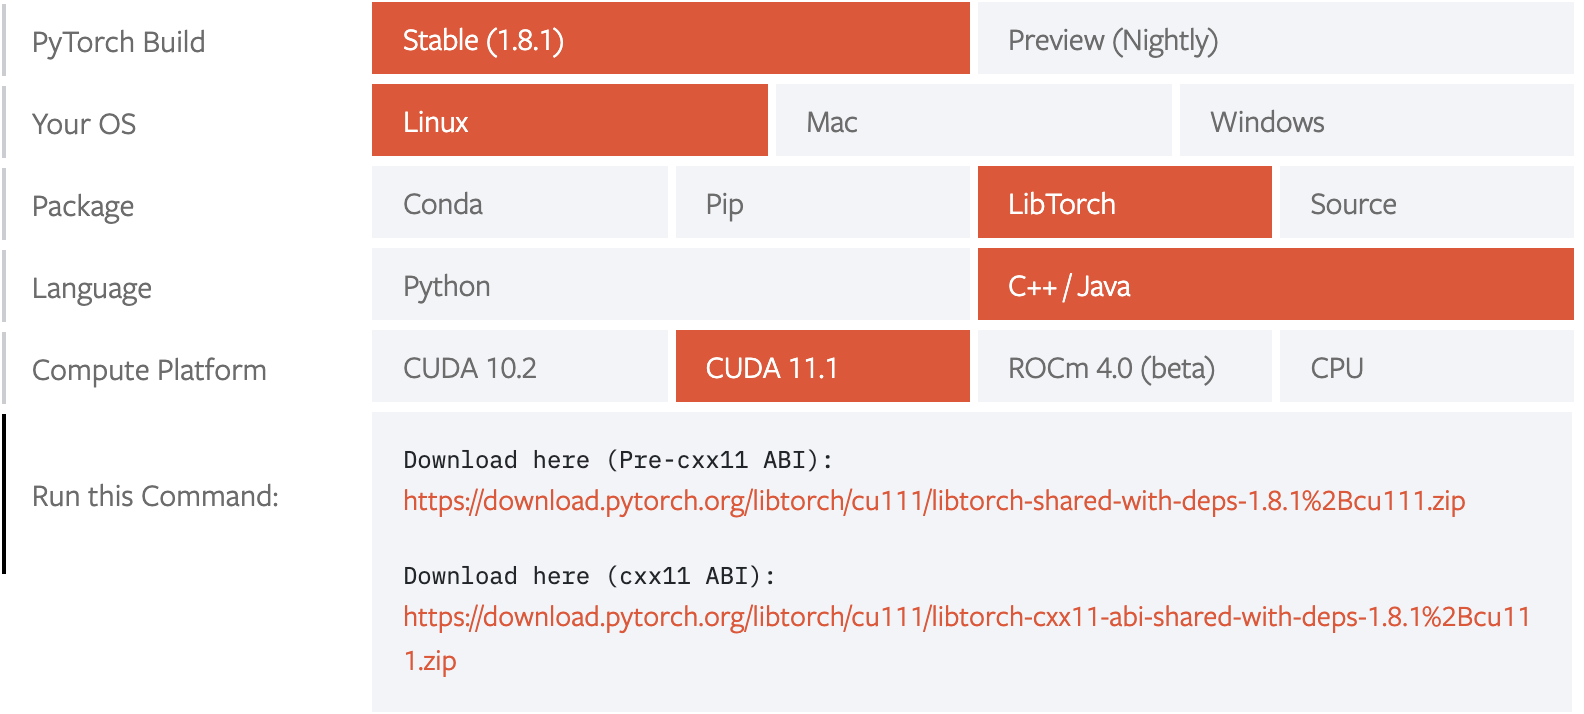
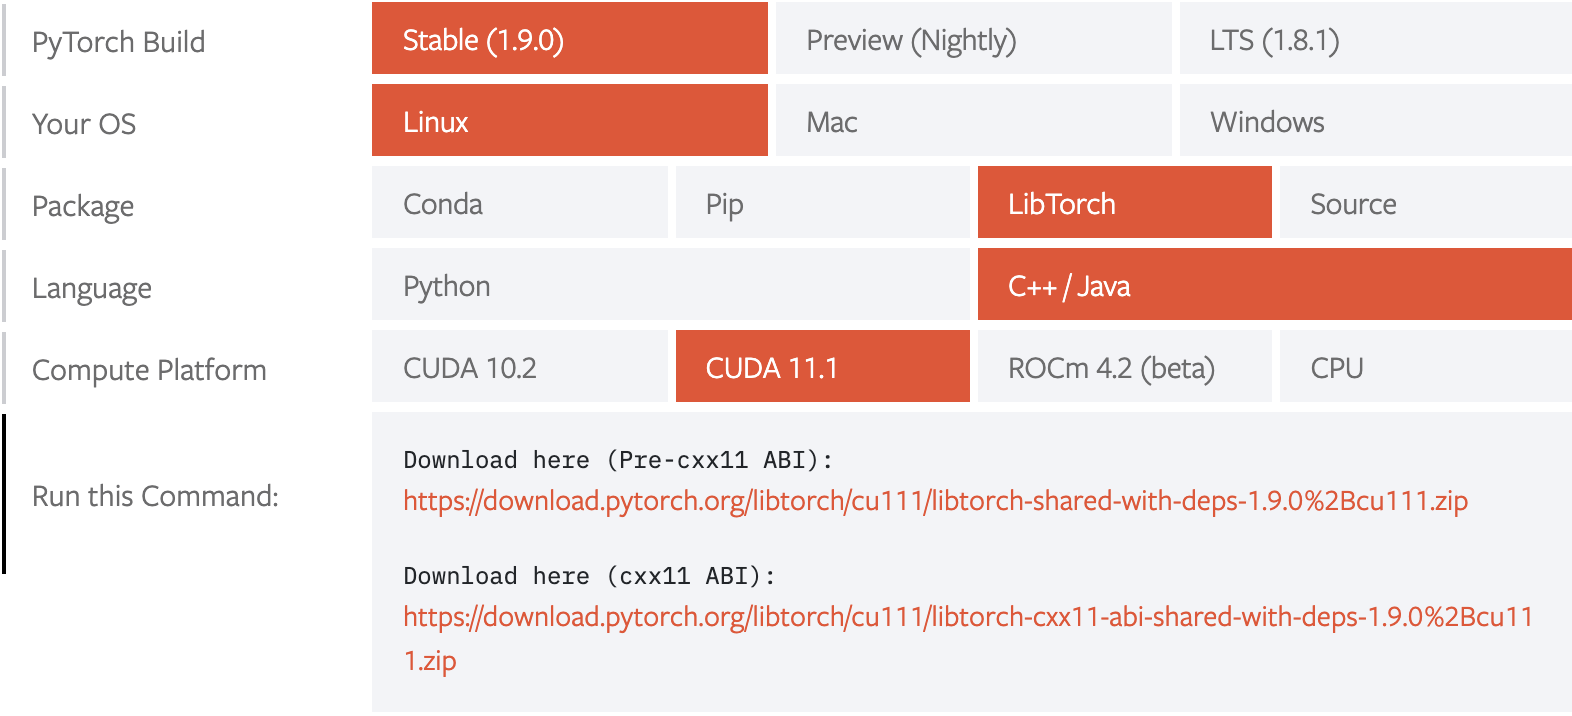
update build doc for version 1.9.0

diff --git a/knn.cpp b/knn.cpp
@@ -4282,7 +4282,7 @@ normalize, interpolate  -- functional form implemented, add module?
 pairwise distance & cosine similarity: in both module & functional form but forward method needs 2 input tensors
 fractional pool -- try with indices registered as buffer?
 embeddingbag -- forward w'defaults should work with sequential
-1.7 adds SiLU, UnFlatten
+1.7 adds UnFlatten
 BaseModule - push_back ? / forward ?
 
 GRU,RNN

diff --git a/docs/config.rst b/docs/config.rst
@@ -9,26 +9,28 @@ Given a successful build of the ``ktorch.so`` interface library, it's possible t
 	| Returns a list of strings containing the configuration output, or with null argument (as opposed to an empty list), prints the configuration to stderr
 
 
-On a linux machine with dual Nvidia GTX 1080 gpu's, ``config`` output looks as follows for PyTorch version 1.8.1:
+On a linux machine with dual Nvidia GTX 1080 gpu's, ``config`` output looks as follows for PyTorch version 1.9.0:
 
 ::
 
-   q)config()
+   q)config()                  / return strings
    "PyTorch built with:"
    "  - GCC 7.3"
    "  - C++ Version: 201402"
    "  - Intel(R) Math Kernel Library Version 2020.0.0 Product Build 20191122 for..
-   "  - Intel(R) MKL-DNN v1.7.0 (Git Hash 7aed236906b1f7a05c0917e5257a1af05e9ff6..
+   "  - Intel(R) MKL-DNN v2.1.2 (Git Hash 98be7e8afa711dc9b66c8ff3504129cb82013c..
    "  - OpenMP 201511 (a.k.a. OpenMP 4.5)"
    "  - NNPACK is enabled"
+   "  - CPU capability usage: AVX2"
+   "  - CUDA Runtime 11.1"
    ..
 
-   q)config[]
+   q)config[]                 / print to stderr
    PyTorch built with:
      - GCC 7.3
      - C++ Version: 201402
      - Intel(R) Math Kernel Library Version 2020.0.0 Product Build 20191122 for Intel(R) 64 architecture applications
-     - Intel(R) MKL-DNN v1.7.0 (Git Hash 7aed236906b1f7a05c0917e5257a1af05e9ff683)
+     - Intel(R) MKL-DNN v2.1.2 (Git Hash 98be7e8afa711dc9b66c8ff3504129cb82013cdb)
      - OpenMP 201511 (a.k.a. OpenMP 4.5)
      - NNPACK is enabled
      - CPU capability usage: AVX2
@@ -36,8 +38,8 @@ On a linux machine with dual Nvidia GTX 1080 gpu's, ``config`` output looks as f
      - NVCC architecture flags: -gencode;arch=compute_37,code=sm_37;-gencode;arch=compute_50,code=sm_50;-gencode;arch=compute_60,code=sm_60;-gencode;arch=compute_70,code=sm_70;-gencode;arch=compute_75,code=sm_75;-gencode;arch=compute_80,code=sm_80;-gencode;arch=compute_86,code=sm_86
      - CuDNN 8.0.5
      - Magma 2.5.2
-     - Build settings: BLAS_INFO=mkl, BUILD_TYPE=Release, CUDA_VERSION=11.1, CUDNN_VERSION=8.0.5, CXX_COMPILER=/opt/rh/devtoolset-7/root/usr/bin/c++, CXX_FLAGS= -Wno-deprecated -fvisibility-inlines-hidden -DUSE_PTHREADPOOL -fopenmp -DNDEBUG -DUSE_KINETO -DUSE_FBGEMM -DUSE_QNNPACK -DUSE_PYTORCH_QNNPACK -DUSE_XNNPACK -O2 -fPIC -Wno-narrowing -Wall -Wextra -Werror=return-type -Wno-missing-field-initializers -Wno-type-limits -Wno-array-bounds -Wno-unknown-pragmas -Wno-sign-compare -Wno-unused-parameter -Wno-unused-variable -Wno-unused-function -Wno-unused-result -Wno-unused-local-typedefs -Wno-strict-overflow -Wno-strict-aliasing -Wno-error=deprecated-declarations -Wno-stringop-overflow -Wno-psabi -Wno-error=pedantic -Wno-error=redundant-decls -Wno-error=old-style-cast -fdiagnostics-color=always -faligned-new -Wno-unused-but-set-variable -Wno-maybe-uninitialized -fno-math-errno -fno-trapping-math -Werror=format -Wno-stringop-overflow, LAPACK_INFO=mkl, PERF_WITH_AVX=1, PERF_WITH_AVX2=1, PERF_WITH_AVX512=1, TORCH_VERSION=1.8.1, USE_CUDA=ON, USE_CUDNN=ON, USE_EXCEPTION_PTR=1, USE_GFLAGS=OFF, USE_GLOG=OFF, USE_MKL=ON, USE_MKLDNN=ON, USE_MPI=OFF, USE_NCCL=ON, USE_NNPACK=ON, USE_OPENMP=ON, 
-   
+     - Build settings: BLAS_INFO=mkl, BUILD_TYPE=Release, CUDA_VERSION=11.1, CUDNN_VERSION=8.0.5, CXX_COMPILER=/opt/rh/devtoolset-7/root/usr/bin/c++, CXX_FLAGS=-Wno-deprecated-declarations -Wno-deprecated -fvisibility-inlines-hidden -DUSE_PTHREADPOOL -fopenmp -DNDEBUG -DUSE_KINETO -DUSE_FBGEMM -DUSE_QNNPACK -DUSE_PYTORCH_QNNPACK -DUSE_XNNPACK -DSYMBOLICATE_MOBILE_DEBUG_HANDLE -O2 -fPIC -Wno-narrowing -Wall -Wextra -Werror=return-type -Wno-missing-field-initializers -Wno-type-limits -Wno-array-bounds -Wno-unknown-pragmas -Wno-sign-compare -Wno-unused-parameter -Wno-unused-variable -Wno-unused-function -Wno-unused-result -Wno-unused-local-typedefs -Wno-strict-overflow -Wno-strict-aliasing -Wno-error=deprecated-declarations -Wno-stringop-overflow -Wno-psabi -Wno-error=pedantic -Wno-error=redundant-decls -Wno-error=old-style-cast -fdiagnostics-color=always -faligned-new -Wno-unused-but-set-variable -Wno-maybe-uninitialized -fno-math-errno -fno-trapping-math -Werror=format -Wno-stringop-overflow, LAPACK_INFO=mkl, PERF_WITH_AVX=1, PERF_WITH_AVX2=1, PERF_WITH_AVX512=1, TORCH_VERSION=1.9.0, USE_CUDA=ON, USE_CUDNN=ON, USE_EXCEPTION_PTR=1, USE_GFLAGS=OFF, USE_GLOG=OFF, USE_MKL=ON, USE_MKLDNN=ON, USE_MPI=OFF, USE_NCCL=ON, USE_NNPACK=ON, USE_OPENMP=ON, 
+
    ATen/Parallel:
 	   at::get_num_threads() : 12
 	   at::get_num_interop_threads() : 6
@@ -45,7 +47,7 @@ On a linux machine with dual Nvidia GTX 1080 gpu's, ``config`` output looks as f
 	   omp_get_max_threads() : 12
    Intel(R) Math Kernel Library Version 2020.0.0 Product Build 20191122 for Intel(R) 64 architecture applications
 	   mkl_get_max_threads() : 6
-   Intel(R) MKL-DNN v1.7.0 (Git Hash 7aed236906b1f7a05c0917e5257a1af05e9ff683)
+   Intel(R) MKL-DNN v2.1.2 (Git Hash 98be7e8afa711dc9b66c8ff3504129cb82013cdb)
    std::thread::hardware_concurrency() : 12
    Environment variables:
 	   OMP_NUM_THREADS : [not set]
@@ -387,8 +389,8 @@ Returns the version of the libtorch libraries from PyTorch. Return numeric versi
 ::
 
    q)version()
-   "1.8.1"
+   "1.9.0"
 
-   q)version[]
-   1.0801
+   q)version[]  / return as double, e.g. 1.0801 for version 1.8.1
+   1.09
 

diff --git a/docs/build.rst b/docs/build.rst
@@ -7,7 +7,7 @@ The ktorch library has been built on Linux and MacOS; it has not been tested on 
 (Windows is just beginning to get more support with `Microsoft becoming the maintainer of the Windows version in July 2020 <https://pytorch.org/blog/microsoft-becomes-maintainer-of-the-windows-version-of-pytorch/>`_.)
 
 The first step is to `download the relevant zip file from PyTorch here <https://pytorch.org/get-started/locally/>`_.
-The k interface requires the latest version of PyTorch, labeled ``Stable(1.8.1)``.
+The k interface requires the latest version of PyTorch, labeled ``Stable(1.9.0)``.
 
 The zip file contains all the necessary libraries and include files; there is no need to install CUDA or Intel MKL as these components are included.
 The zip file is large, around 2 gigabytes for versions which include libraries for working with GPU's and around 150 megabytes for CPU-only.
@@ -71,7 +71,7 @@ It may also be possible to point the make to the libraries already installed wit
 
 ::
 
-   # find the dir for pytorch 1.8.1 libraries in mini conda
+   # find the dir for pytorch 1.9.0 libraries in mini conda
    find ~/miniconda3/lib  -name libtorch.so 
    /home/t/miniconda3/lib/python3.8/site-packages/torch/lib/libtorch.so
 
@@ -94,15 +94,15 @@ In Linux, there's a choice of ABI (application binary interface). Changes in the
 `a newer ABI <https://developers.redhat.com/blog/2015/02/05/gcc5-and-the-c11-abi/>`_.  The supplied libtorch zip files from PyTorch come in two versions,
 one for the ABI prior to the changes for the C++11 standard, and one with the new ABI.
 
-For example, for Linux, version 1.8.1, with support for CUDA 11.1, the zip files are listed as:
+For example, for Linux, version 1.9.0, with support for CUDA 11.1, the zip files are listed as:
 
 ::
 
    Download here (Pre-cxx11 ABI):
-   https://download.pytorch.org/libtorch/cu111/libtorch-shared-with-deps-1.8.1%2Bcu111.zip
+   https://download.pytorch.org/libtorch/cu111/libtorch-shared-with-deps-1.9.0%2Bcu111.zip
 
    Download here (cxx11 ABI):
-   https://download.pytorch.org/libtorch/cu111/libtorch-cxx11-abi-shared-with-deps-1.8.1%2Bcu111.zip
+   https://download.pytorch.org/libtorch/cu111/libtorch-cxx11-abi-shared-with-deps-1.9.0%2Bcu111.zip
 
 In their earlier versions, PyTorch only offered the older ABI with their zip files so users could maintain compatibility with older third-party libraries compiled under the old ABI, but now PyTorch offers the choice of old or new versions.
 By default, the Makefile builds code with ``-D_GLIBCXX_USE_CXX11_ABI=0`` for the older API.
@@ -136,20 +136,20 @@ Sample builds
 MacOS, CPU only
 ^^^^^^^^^^^^^^^
 
-First step, get the CPU-only version of libtorch 1.8.1 for MacOS:
+First step, get the CPU-only version of libtorch 1.9.0 for MacOS:
 
 ::
 
    > cd ~
-   > wget --quiet https://download.pytorch.org/libtorch/cpu/libtorch-macos-1.8.1.zip
+   > wget --quiet https://download.pytorch.org/libtorch/cpu/libtorch-macos-1.9.0.zip
 
-   > ls -lh libtorch-macos-1.8.1.zip 
-   -rw-r--r--@ 1 t  staff   146M Mar 25 10:44 libtorch-macos-1.8.1.zip
+   > ls -lh libtorch-macos-1.9.0.zip 
+   -rw-r--r--  1 t  staff   162M Jun 15 10:42 libtorch-macos-1.9.0.zip
 
    > rm -rf ~/libtorch  # erase any previous version
 
-   > unzip libtorch-macos-1.8.1.zip 
-   Archive:  libtorch-macos-1.8.1.zip
+   > unzip libtorch-macos-1.9.0.zip 
+   Archive:  libtorch-macos-1.9.0.zip
       creating: libtorch/
       creating: libtorch/bin/
      inflating: libtorch/build-hash     
@@ -219,21 +219,22 @@ Check if the ktorch.so library can be loaded from within a k session:
 Linux, CUDA 11.1
 ^^^^^^^^^^^^^^^^
 
-Build in ``/tmp``, using the libtorch zip file for linux, version 1.8.1, CUDA 11.1 with new c++ ABI.
+Build in ``/tmp``, using the libtorch zip file for linux, version 1.9.0, CUDA 11.1 with new c++ ABI.
 
 ::
 
    > cd /tmp
-   > wget --quiet https://download.pytorch.org/libtorch/cu111/libtorch-cxx11-abi-shared-with-deps-1.8.1%2Bcu111.zip
+   > wget --quiet https://download.pytorch.org/libtorch/cu111/libtorch-cxx11-abi-shared-with-deps-1.9.0%2Bcu111.zip
 
-   > ls -lh libtorch-cxx11-abi-shared-with-deps-1.8.1+cu111.zip 
-   -rw-rw-r-- 1 t t 2.0G Mar 25 10:46 libtorch-cxx11-abi-shared-with-deps-1.8.1+cu111.zip
+   > ls -lh libtorch-cxx11-abi-shared-with-deps-1.9.0+cu111.zip 
+   -rw-rw-r-- 1 t t 2.1G Jun 15 10:48 libtorch-cxx11-abi-shared-with-deps-1.9.0+cu111.zip
 
-   > unzip libtorch-cxx11-abi-shared-with-deps-1.8.1+cu111.zip 
-   Archive:  libtorch-cxx11-abi-shared-with-deps-1.8.1+cu111.zip
+   > unzip libtorch-cxx11-abi-shared-with-deps-1.9.0+cu111.zip 
+   Archive:  libtorch-cxx11-abi-shared-with-deps-1.9.0+cu111.zip
       creating: libtorch/
       creating: libtorch/lib/
      inflating: libtorch/lib/libasmjit.a  
+     inflating: libtorch/lib/libbackend_with_compiler.so  
      inflating: libtorch/lib/libbenchmark.a  
      inflating: libtorch/lib/libbenchmark_main.a  
      inflating: libtorch/lib/libc10_cuda.so  

diff --git a/docs/devices.rst b/docs/devices.rst
@@ -5,7 +5,7 @@ Devices
 
 PyTorch has the capability to create or move tensors, modules and optimizers onto CPU or GPU devices.
 Internally, PyTorch has a more varied set of devices than are allowed in the python or c++ interface;
-the main device choices are CPU or Nvidia GPU's with compute capability >= 3.7 as of version 1.8.1.
+the main device choices are CPU or Nvidia GPU's with compute capability >= 3.7 as of version 1.9.0.
 
 Specifiying ```cuda`` without a device index implies the default CUDA device -- typically ```cuda:0``,
 but would mean ```cuda:1`` if the default CUDA device were switched to the second GPU.
